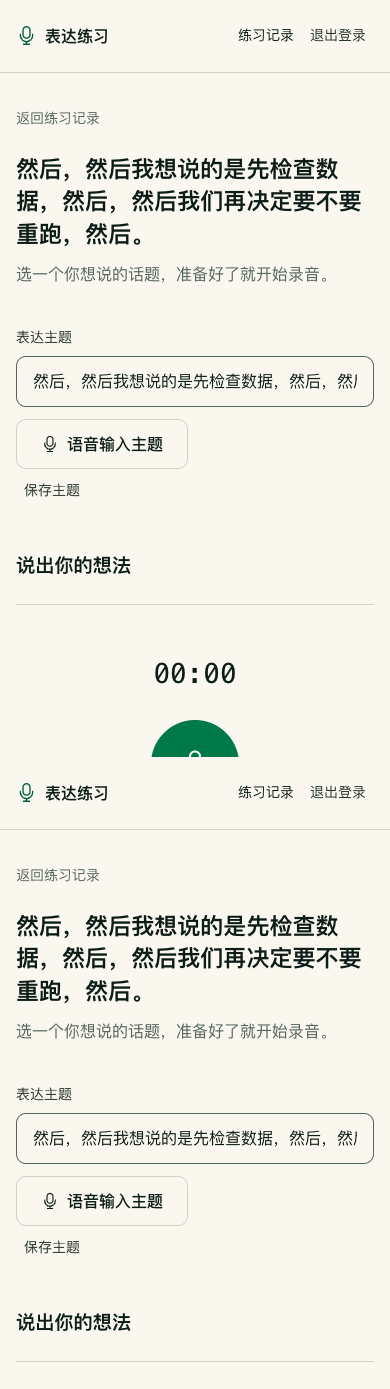
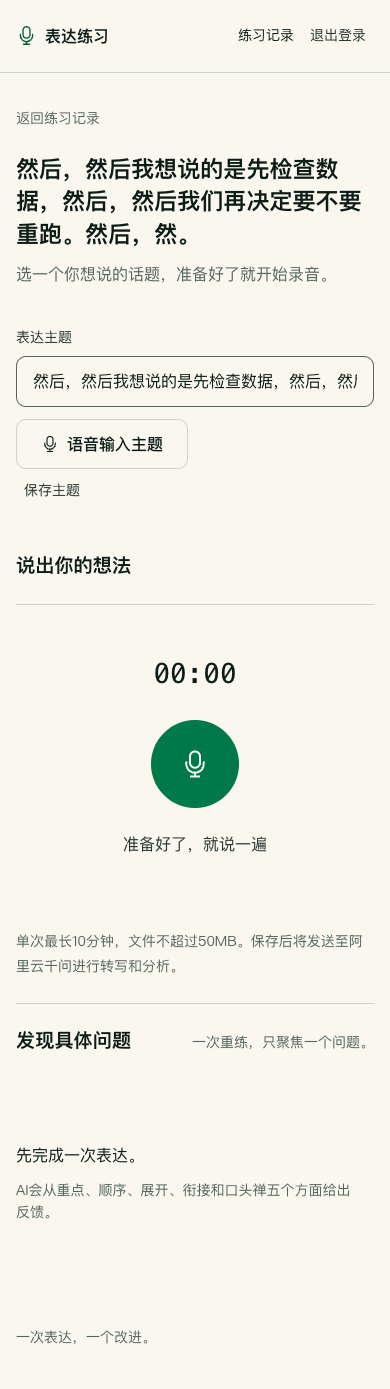
feat: redesign personal workspace with history and current issue analysis

diff --git a/src/components/practice-list.tsx b/src/components/practice-list.tsx
@@ -4,18 +4,43 @@ import { useCallback, useEffect, useRef, useState } from 'react';
 import { useRouter } from 'next/navigation';
 import { AppShell, Mic } from './app-shell';
 import { api, dateLabel, statusLabel } from '@/lib/client';
+import { DIMENSIONS } from '@/lib/dimensions';
+import type { WorkspaceIssue } from '@/lib/store';
 import { discardDraft } from '@/lib/recording-drafts';
 type Row = { id: string; title: string; goal: string; updatedAt: number; attemptCount: number; latestStatus: string | null };
 export function PracticeList() {
-  const [rows, setRows] = useState<Row[]>([]), [loading, setLoading] = useState(true), [busy, setBusy] = useState(false), [error, setError] = useState(''), [deleting, setDeleting] = useState<Row | null>(null);
+  const [rows, setRows] = useState<Row[]>([]), [issues, setIssues] = useState<WorkspaceIssue[]>([]), [dimension, setDimension] = useState('');
+  const [loading, setLoading] = useState(true), [busy, setBusy] = useState(false), [error, setError] = useState(''), [deleting, setDeleting] = useState<Row | null>(null);
   const dialog = useRef<HTMLDialogElement>(null); const router = useRouter();
-  const load = useCallback(async () => { try { const r = await api<{ practices: Row[] }>('/practices'); setRows(r.practices); setError(''); } catch (e) { setError((e as Error).message); } finally { setLoading(false); } }, []);
+  const load = useCallback(async () => { try { const r = await api<{ practices: Row[]; issues: WorkspaceIssue[] }>('/workspace'); setRows(r.practices); setIssues(r.issues); setError(''); } catch (e) { setError((e as Error).message); } finally { setLoading(false); } }, []);
   useEffect(() => { void load(); const id = setInterval(() => { if (document.visibilityState === 'visible') void load(); }, 5000); return () => clearInterval(id); }, [load]);
+  useEffect(() => {
+    const sync = () => { const value = new URLSearchParams(location.search).get('dimension') || ''; setDimension(DIMENSIONS.some(d => d === value) ? value : ''); };
+    sync(); window.addEventListener('popstate', sync); return () => window.removeEventListener('popstate', sync);
+  }, []);
   useEffect(() => { if (deleting) dialog.current?.showModal(); }, [deleting]);
+  function chooseDimension(value: string) {
+    setDimension(value); const params = new URLSearchParams(location.search);
+    if (value) params.set('dimension', value); else params.delete('dimension');
+    history.pushState(null, '', `${location.pathname}${params.size ? '?' + params.toString() : ''}`);
+  }
   async function create() { setBusy(true); try { const r = await api<{ practice: Row }>('/practices', { method: 'POST' }); router.push(`/practices/${r.practice.id}`); } catch (e) { setError((e as Error).message); setBusy(false); } }
-  return <AppShell><div className="page-heading"><div><h1>每一次表达，都留得下来。</h1><p className="muted">选一个你想讲清楚的话题，开始练习。</p></div><button className="button primary" onClick={create} disabled={busy}>{busy ? '正在创建…' : '新建练习'}</button></div>
-    {error && <div className="notice"><p role="alert" className="error-message">{error}</p><button className="text-button" onClick={load}>重新加载</button></div>}
-    {loading ? <div className="skeleton" aria-label="正在加载练习记录">正在读取练习记录…</div> : !rows.length ? <section className="empty-state"><div className="empty-mic"><Mic size={38} /></div><h2>还没有练习记录</h2><p>从一段真实想说的话开始。录音后，AI会帮你找到具体的改进方向。</p><button className="button quiet" onClick={create} disabled={busy}>开始第一次练习</button></section> : <div className="practice-table"><div className="list-head"><span>表达主题</span><span>最近练习</span><span>状态</span><span className="sr-only">操作</span></div>{rows.map(r => <article className="practice-row" key={r.id}><Link className="practice-title" href={`/practices/${r.id}`}><h2>{r.title || '未命名练习'}</h2><p>{r.goal || '确定主题，开始录音。'}</p></Link><div className="row-meta"><span>{dateLabel(r.updatedAt)}</span><span>{r.attemptCount ? `${r.attemptCount} 次表达` : '尚未录音'}</span></div><span className={`status ${r.latestStatus === 'failed' ? 'status-failed' : ''}`}>{statusLabel[r.latestStatus || 'active'] || '草稿'}</span><button className="text-button" aria-label="删除练习" onClick={() => setDeleting(r)}>删除</button></article>)}</div>}
+  const filteredIssues = issues.filter(item => !dimension || item.issue.dimension === dimension);
+  const pendingCount = rows.filter(row => row.attemptCount > 0 && row.latestStatus !== 'done').length;
+  return <AppShell><div className="workspace-heading"><h1>我的表达工作台</h1><p className="muted">留下每次表达，从具体问题开始下一次练习。</p></div>
+    <section className="workspace-start" aria-labelledby="start-heading"><div><h2 id="start-heading">开始一段新表达</h2><p>选一个想说的话题，用自己的话讲清楚。</p></div><button className="button primary" onClick={create} disabled={busy}><Mic size={20} />{busy ? '正在创建…' : '新建练习'}</button></section>
+    {error && <div className="notice"><p role="alert" className="error-message">{error}</p>{rows.length > 0 && <p className="small muted">刷新失败，暂时保留上次读取的记录与反馈。</p>}<button className="text-button" onClick={load}>重新加载</button></div>}
+    <nav className="workspace-jumps" aria-label="工作台模块"><a href="#history-heading">历史表达</a><a href="#problems-heading">当前问题分析</a></nav>
+    <div className="workspace-grid"><section className="workspace-history" aria-labelledby="history-heading"><div className="workspace-section-head"><h2 id="history-heading">历史表达</h2>{!loading && (!error || rows.length > 0) && <span className="small muted">{rows.length} 组练习</span>}</div>
+      {loading ? <div className="workspace-loading" aria-label="正在加载练习记录"><div className="skeleton">正在读取表达记录…</div><div className="skeleton">正在读取练习状态…</div></div> : !rows.length ? <div className="workspace-empty"><h3>{error ? '暂时无法读取历史表达' : '还没有练习记录'}</h3><p>{error ? '请重新加载后查看。' : '录音、转写和每次重练都会保存在这里。'}</p>{!error && <button className="button quiet" onClick={create} disabled={busy}>开始第一次练习</button>}</div> : <div className="practice-table"><div className="list-head"><span>表达主题</span><span>最近练习</span><span>状态</span><span className="sr-only">操作</span></div>{rows.map(r => <article className="practice-row" key={r.id}><Link className="practice-title" href={`/practices/${r.id}`}><h3>{r.title || '未命名练习'}</h3><p>{r.attemptCount ? `已保存 ${r.attemptCount} 次表达` : '继续确定主题，开始录音'}</p></Link><div className="row-meta"><span>{dateLabel(r.updatedAt)}</span></div><span className={`status ${r.latestStatus === 'failed' ? 'status-failed' : ''}`}>{statusLabel[r.latestStatus || 'active'] || '草稿'}</span><button className="text-button" aria-label="删除练习" onClick={() => setDeleting(r)}>删除</button></article>)}</div>}
+    </section><aside className="workspace-problems" aria-labelledby="problems-heading"><div className="workspace-section-head"><h2 id="problems-heading">当前问题分析</h2></div><p className="workspace-scope small muted">每组只看最近一次表达，尚未完成分析的暂不计入。</p>
+      {loading ? <div className="workspace-loading" aria-label="正在加载问题分析"><div className="skeleton">正在整理具体反馈…</div></div> : error && !rows.length ? <div className="workspace-empty"><h3>暂时无法读取问题分析</h3><p>请重新加载后查看。</p></div> : <>
+        <div className="dimension-summary" role="group" aria-label="按问题维度筛选"><button className="dimension-filter" aria-pressed={!dimension} onClick={() => chooseDimension('')}><span>全部问题</span><span>{issues.length}<span className="sr-only">条</span></span></button>{DIMENSIONS.map(d => <button key={d} className="dimension-filter" aria-pressed={dimension === d} onClick={() => chooseDimension(d)}><span>{d}</span><span>{issues.filter(item => item.issue.dimension === d).length}<span className="sr-only">条</span></span></button>)}</div>
+        {pendingCount > 0 && <p className="small muted workspace-pending">{pendingCount} 组表达尚未完成分析，完成后更新这里的反馈。</p>}
+        <div className="workspace-issues" aria-live="polite">{filteredIssues.length > 0 ? <>{filteredIssues.slice(0, 6).map(item => <article className="workspace-issue" key={`${item.attemptId}:${item.issue.id}`}><div className="workspace-issue-meta"><h3>{item.issue.dimension}</h3><span className="small muted">第 {item.sequence} 次表达</span></div><Link className="workspace-source small" href={`/practices/${item.practiceId}?attempt=${item.attemptId}`}>{item.title || '未命名练习'}</Link><blockquote>{item.issue.evidence}</blockquote>{!item.issue.evidenceVerified && <p className="small error-message">引用未核验，请先回听确认。</p>}<p className="small muted">{item.issue.impact}</p><p className="workspace-suggestion">{item.issue.suggestion}</p><Link className="text-button" href={`/practices/${item.practiceId}?attempt=${item.attemptId}&retry=${encodeURIComponent(item.issue.id)}`}>针对这个问题重练</Link></article>)}{filteredIssues.length > 6 && <p className="small muted">显示最近6条反馈，其余可在对应表达中查看。</p>}</> : <div className="workspace-empty"><h3>{error ? '暂时无法读取问题分析' : dimension ? '这个维度暂无问题反馈' : rows.length ? '暂无可汇总的问题' : '先留下一段表达'}</h3><p>{error ? '请重新加载后查看。' : !rows.length ? '完成录音和分析后，具体反馈会出现在这里。' : '只汇总已完成分析的最新版本，不代表整体能力评价。'}</p></div>}</div>
+        <p className="workspace-disclaimer small muted">问题条数不是能力评分。AI判断可能有误，请结合原音核对。</p>
+      </>}
+    </aside></div>
     <dialog ref={dialog} onCancel={() => setDeleting(null)} onClick={e => { if (e.target === dialog.current) { dialog.current.close(); setDeleting(null); } }}><h2>删除这组练习？</h2><p>“{deleting?.title || '未命名练习'}”的所有录音、转写、分析和重练记录都会删除，无法恢复。</p><div className="button-row"><button className="button quiet" onClick={() => { dialog.current?.close(); setDeleting(null); }} disabled={busy}>保留练习</button><button className="button primary" disabled={busy} onClick={async () => { if (!deleting) return; setBusy(true); try { await api(`/practices/${deleting.id}`, { method: 'DELETE' }); discardDraft(deleting.id); dialog.current?.close(); setDeleting(null); await load(); } catch (e) { setError((e as Error).message); dialog.current?.close(); setDeleting(null); } finally { setBusy(false); } }}>确认删除</button></div></dialog>
   </AppShell>;
 }

diff --git a/src/app/globals.css b/src/app/globals.css
@@ -1,5 +1,5 @@
 /* Hallmark · shape: app screen · genre: modern-minimal · theme: Dose (deal 3/3)
- * nav: top bar with practice history and account · signature: recorded voice beside its quoted feedback
+ * nav: top bar with practice history and account · signature: expression history beside source-linked current feedback
  * states: loading empty error full recording uploading analyzing comparing · dose: white
  * axes: light/grotesk-sans/chromatic-green · posture: committed · v2.0.0 */
 /* Hallmark · pre-emit critique: P4 H4 E3 S4 R4 V3 · weakest: E, browser focus and recording states require runtime verification */
@@ -88,7 +88,7 @@ dialog p { margin-top: var(--space-md); line-height: 1.8; }
 .topic-form { max-width: 80ch; margin-block: var(--space-md) var(--space-xl); }
 .topic-field { display: grid; grid-template-columns: minmax(0, 1fr) auto; gap: var(--space-sm); align-items: start; }
 .topic-controls { display: flex; flex-wrap: wrap; gap: var(--space-xs); }
-.topic-voice p { margin-top: var(--space-xs); max-width: 32ch; }
+.topic-voice p { margin-top: var(--space-xs); max-width: 45ch; }
 .topic-form .text-button { justify-self: start; }
 .work-toolbar { display: flex; align-items: center; justify-content: space-between; gap: var(--space-lg); padding-block: var(--space-md); border-block: 1px solid var(--color-rule); margin-bottom: var(--space-xl); }
 .tab-buttons { display: inline-flex; gap: var(--space-xs); }
@@ -177,7 +177,7 @@ dialog p { margin-top: var(--space-md); line-height: 1.8; }
 
 /* A processing signal, rather than an audio-level or percentage estimate. */
 .processing-indicator { display: inline-flex; align-items: center; gap: var(--space-sm); }
-.processing-wave { display: inline-flex; align-items: center; gap: 3px; height: 22px; flex-shrink: 0; color: var(--color-accent); }
+.processing-wave { display: inline-flex; align-items: center; gap: var(--space-2xs); height: 22px; flex-shrink: 0; color: var(--color-accent); }
 .processing-wave i { display: block; width: 3px; height: 18px; background: currentColor; border-radius: var(--radius-input); transform-origin: center; animation: processing-wave 900ms ease-in-out infinite alternate; }
 .processing-wave i:nth-child(2) { animation-delay: -360ms; }
 .processing-wave i:nth-child(3) { animation-delay: -180ms; }
@@ -186,6 +186,67 @@ dialog p { margin-top: var(--space-md); line-height: 1.8; }
 @keyframes processing-wave { from { transform: scaleY(0.25); } to { transform: scaleY(1); } }
 @media (prefers-reduced-motion: reduce) { .processing-wave i { animation: none; transform: scaleY(0.6); } }
 
-.recording-wave { display: inline-flex; align-items: center; justify-content: center; gap: 4px; height: 32px; flex-shrink: 0; color: var(--color-accent); }
+.recording-wave { display: inline-flex; align-items: center; justify-content: center; gap: var(--space-2xs); height: 32px; flex-shrink: 0; color: var(--color-accent); }
 .recording-wave i { display: block; width: 4px; height: 28px; background: currentColor; border-radius: var(--radius-input); transform: scaleY(0.15); }
 .recording-status { display: flex; align-items: center; gap: var(--space-sm); }
+
+/* Personal workspace: history beside source-linked feedback, using the existing Dose system. */
+.workspace-heading { margin-bottom: var(--space-xl); }
+.workspace-heading h1 { font-size: var(--text-2xl); min-width: 0; overflow-wrap: break-word; }
+.workspace-heading > p { margin-top: var(--space-xs); max-width: 65ch; }
+.workspace-start { display: flex; align-items: center; justify-content: space-between; gap: var(--space-lg); padding: var(--space-lg) var(--space-xl); margin-bottom: var(--space-xl); background: var(--color-paper-2); border-block: 1px solid var(--color-rule); }
+.workspace-start h2 { font-size: var(--text-xl); }
+.workspace-start p { color: var(--color-ink-2); margin-top: var(--space-xs); max-width: 65ch; }
+.workspace-start .button { flex-shrink: 0; }
+.workspace-grid { display: grid; grid-template-columns: minmax(0, 1.65fr) minmax(0, 1fr); gap: var(--space-xl); align-items: start; }
+.workspace-section-head { display: flex; align-items: baseline; justify-content: space-between; gap: var(--space-md); margin-bottom: var(--space-lg); }
+.workspace-section-head h2 { font-size: var(--text-xl); }
+.workspace-history,.workspace-problems { min-width: 0; }
+.workspace-problems { padding-left: var(--space-xl); border-left: 1px solid var(--color-rule); }
+.workspace-grid .list-head,.workspace-grid .practice-row { grid-template-columns: minmax(0, 1fr) 112px 96px 44px; gap: var(--space-sm); }
+.workspace-grid .practice-title h3 { font-size: var(--text-md); font-weight: 700; line-height: 1.7; overflow-wrap: break-word; }
+.workspace-grid .row-meta { line-height: 1.7; }
+.workspace-grid .practice-row { align-items: center; }
+.workspace-scope { line-height: 1.8; max-width: 65ch; margin-bottom: var(--space-lg); }
+.dimension-summary { border-block: 1px solid var(--color-rule); }
+.dimension-filter { display: flex; width: 100%; justify-content: space-between; align-items: center; gap: var(--space-sm); min-height: 44px; padding: var(--space-xs) var(--space-sm); font-size: var(--text-sm); border: 0; border-bottom: 1px solid var(--color-rule); background: transparent; cursor: pointer; }
+.dimension-filter:last-child { border-bottom: 0; }
+.dimension-filter:hover { background: var(--color-paper-2); }
+.dimension-filter[aria-pressed="true"] { background: var(--color-paper-3); font-weight: 700; color: var(--color-accent-deep); }
+.dimension-filter > span:last-child { font-variant-numeric: tabular-nums; }
+.workspace-pending { margin-top: var(--space-md); line-height: 1.8; }
+.workspace-issue { padding-block: var(--space-lg); border-bottom: 1px solid var(--color-rule); }
+.workspace-issue-meta { display: flex; align-items: baseline; justify-content: space-between; gap: var(--space-sm); flex-wrap: wrap; }
+.workspace-issue-meta h3 { font-size: var(--text-md); }
+.workspace-source { display: inline-block; margin-top: var(--space-xs); max-width: 100%; overflow-wrap: break-word; color: var(--color-muted); }
+.workspace-issue blockquote { font-size: var(--text-md); }
+.workspace-issue > p { max-width: 65ch; line-height: 1.8; overflow-wrap: break-word; }
+.workspace-suggestion { margin-top: var(--space-sm); }
+.workspace-issue .text-button { margin-top: var(--space-xs); padding-left: 0; color: var(--color-accent-deep); }
+.workspace-disclaimer { margin-top: var(--space-lg); max-width: 65ch; line-height: 1.8; }
+.workspace-empty { padding-block: var(--space-xl); }
+.workspace-empty h3 { font-size: var(--text-lg); }
+.workspace-empty p { max-width: 65ch; margin-top: var(--space-sm); color: var(--color-muted); line-height: 1.8; }
+.workspace-empty .button { margin-top: var(--space-lg); }
+.workspace-loading .skeleton + .skeleton { margin-top: var(--space-lg); }
+@media (max-width: 1100px) {
+  .workspace-grid { grid-template-columns: minmax(0, 1.35fr) minmax(0, 1fr); gap: var(--space-lg); }
+  .workspace-problems { padding-left: var(--space-lg); }
+  .workspace-grid .list-head { display: none; }
+  .workspace-grid .practice-row { grid-template-columns: minmax(0, 1fr) auto; }
+  .workspace-grid .practice-title { grid-column: 1 / -1; }
+  .workspace-grid .row-meta { grid-column: 1; }
+  .workspace-grid .status { grid-column: 1; }
+  .workspace-grid .practice-row > button { grid-column: 2; grid-row: 2 / 4; }
+}
+@media (max-width: 760px) {
+  .workspace-heading { margin-bottom: var(--space-lg); }
+  .workspace-start { flex-direction: column; align-items: stretch; padding: var(--space-lg); gap: var(--space-lg); }
+  .workspace-grid { grid-template-columns: minmax(0, 1fr); gap: var(--space-xl); }
+  .workspace-problems { padding-left: 0; padding-top: var(--space-lg); border-left: 0; border-top: 1px solid var(--color-rule); }
+}
+
+.workspace-jumps { display: flex; flex-wrap: wrap; gap: var(--space-lg); margin-bottom: var(--space-lg); border-bottom: 1px solid var(--color-rule); }
+.workspace-jumps a { display: inline-flex; align-items: center; min-height: 44px; font-size: var(--text-sm); color: var(--color-accent-deep); }
+.retry-choice h2 { font-size: var(--text-lg); }
+.retry-choice > p { margin-top: var(--space-sm); max-width: 65ch; line-height: 1.8; }

diff --git a/src/components/practice-workbench.tsx b/src/components/practice-workbench.tsx
@@ -1,7 +1,7 @@
 'use client';
 import Link from 'next/link';
 import { useCallback, useEffect, useRef, useState } from 'react';
-import { api, dateLabel, durationLabel, statusLabel } from '@/lib/client';
+import { api, dateLabel, durationLabel } from '@/lib/client';
 import type { Analysis, ComparisonResult, Issue } from '@/lib/analysis-schema';
 import { AppShell } from './app-shell';
 import { AudioRecorder } from './audio-recorder';
@@ -17,6 +17,7 @@ export function PracticeWorkbench({ id }: { id: string }) {
   const [practice, setPractice] = useState<Practice | null>(null), [title, setTitle] = useState(''), [selected, setSelected] = useState(''), [view, setView] = useState('expression');
   const [loading, setLoading] = useState(true), [error, setError] = useState(''), [busy, setBusy] = useState(false), [recordMode, setRecordMode] = useState(false), [target, setTarget] = useState<{ sourceId: string; issue: Issue } | null>(null), [dirty, setDirty] = useState(false);
   const [topicBusy, setTopicBusy] = useState(false);
+  const [retryChoice, setRetryChoice] = useState<{ sourceId: string; issue: Issue } | null>(null);
   const unsaved = dirty || topicBusy;
   const changeTopicBusy = useCallback((value: boolean) => setTopicBusy(value), []);
   const initialized = useRef(false);
@@ -27,11 +28,17 @@ export function PracticeWorkbench({ id }: { id: string }) {
       if (!initialized.current) {
         const params = new URLSearchParams(location.search);
         setTitle(p.title); setSelected(params.get('attempt') || p.attempts.at(-1)?.id || ''); setView(params.get('view') === 'compare' ? 'compare' : 'expression'); setRecordMode(!p.attempts.length); initialized.current = true;
+        const requestedSource = p.attempts.find(a => a.id === params.get('attempt'));
+        const requestedIssue = requestedSource?.analysis?.issues.find(i => i.id === params.get('retry'));
+        const requested = requestedSource && requestedIssue ? { sourceId: requestedSource.id, issue: requestedIssue } : null;
         const draft = readDraft(id);
         if (draft) {
           setTitle(draft.title); setRecordMode(true); setView('expression');
           const source = p.attempts.find(a => a.id === draft.sourceId), issue = source?.analysis?.issues.find(i => i.id === draft.issueId);
           if (source && issue) { setSelected(source.id); setTarget({ sourceId: source.id, issue }); }
+          if (requested && (draft.sourceId !== requested.sourceId || draft.issueId !== requested.issue.id)) setRetryChoice(requested);
+        } else if (requested) {
+          setTarget(requested); setRecordMode(true); setView('expression');
         }
       }
     } catch (e) { setError((e as Error).message); } finally { setLoading(false); }
@@ -50,8 +57,8 @@ export function PracticeWorkbench({ id }: { id: string }) {
     return () => { window.removeEventListener('beforeunload', prevent); window.removeEventListener('popstate', preventHistory, true); };
   }, [unsaved]);
   useEffect(() => {
-    if (!initialized.current) return; const params = new URLSearchParams(); if (selected) params.set('attempt', selected); if (view === 'compare') params.set('view', 'compare'); history.replaceState(null, '', `${location.pathname}${params.size ? '?' + params.toString() : ''}`);
-  }, [selected, view]);
+    if (!initialized.current) return; const params = new URLSearchParams(); if (selected) params.set('attempt', selected); if (view === 'compare') params.set('view', 'compare'); if (retryChoice) { params.set('attempt', retryChoice.sourceId); params.set('retry', retryChoice.issue.id); } else if (recordMode && target) params.set('retry', target.issue.id); history.replaceState(null, '', `${location.pathname}${params.size ? '?' + params.toString() : ''}`);
+  }, [selected, view, recordMode, target, retryChoice]);
   const current = practice?.attempts.find(a => a.id === selected) || practice?.attempts.at(-1);
   const comparison = [...(practice?.comparisons || [])].reverse().find(c => c.attemptId === current?.id);
   const source = practice?.attempts.find(a => a.id === current?.sourceId);
@@ -71,6 +78,7 @@ export function PracticeWorkbench({ id }: { id: string }) {
   return <AppShell hasUnsaved={unsaved}>{loading ? <div className="skeleton">正在打开练习…</div> : !practice ? <div className="empty-state"><h1>{error || '练习不存在或无权访问'}</h1><Link className="button quiet" href="/practices">返回练习记录</Link></div> : <>
     <div className="work-heading"><Link className="back-link" href="/practices" onClick={e => { if (unsaved && !confirm('还有未保存的录音，确定离开吗？')) e.preventDefault(); }}>返回练习记录</Link><h1>{practice.title || '开始一段新表达'}</h1><p className="muted">选一个你想说的话题，准备好了就开始录音。</p></div>
     {error && <p role="alert" className="notice error-message">{error}</p>}
+    {retryChoice && <section className="notice retry-choice" aria-labelledby="draft-choice-heading"><h2 id="draft-choice-heading">还有一段未保存的录音</h2><p>已保留上次录音。你刚选择了「{retryChoice.issue.dimension}」的重练，可以继续旧录音，或放弃草稿后切换。</p><div className="button-row"><button className="button quiet" onClick={() => setRetryChoice(null)}>继续上次录音</button><button className="button quiet" onClick={() => { if (!confirm('放弃未保存的录音，切换到刚选择的问题吗？')) return; discardDraft(id); setTarget(retryChoice); setSelected(retryChoice.sourceId); setRecordMode(true); setView('expression'); setRetryChoice(null); }}>放弃草稿，练所选问题</button></div></section>}
     {!practice.attempts.length && <section className="topic-form"><label htmlFor="topic">表达主题</label><div className="topic-field"><input id="topic" value={title} maxLength={120} onChange={e => setTitle(e.target.value)} placeholder="例如：为什么建议推迟上线" required disabled={topicBusy} /><TopicVoiceInput practiceId={id} disabled={busy || dirty} onBusyChange={changeTopicBusy} onResult={async value => { setTitle(value); await api(`/practices/${id}`, { method: 'PATCH', body: JSON.stringify({ title: value }) }); await load(); }} /></div><button className="text-button" disabled={busy || topicBusy} onClick={() => action(() => api(`/practices/${id}`, { method: 'PATCH', body: JSON.stringify({ title }) }))}>保存主题</button></section>}
     {practice.attempts.length > 0 && <div className="work-toolbar"><div className="tab-buttons" aria-label="查看方式"><button aria-pressed={view === 'expression'} onClick={() => setView('expression')}>本次表达</button><button aria-pressed={view === 'compare'} disabled={!current?.sourceId || dirty} title={dirty ? "请先保存或取消当前录音" : undefined} onClick={() => setView('compare')}>前后对比</button></div><label className="version-picker">表达版本<select aria-label="表达版本" value={current?.id || ''} onChange={e => { if (dirty && !confirm('还有未保存的录音，确定切换版本吗？')) return; setSelected(e.target.value); setRecordMode(false); setTarget(null); }} disabled={dirty}>{practice.attempts.map(a => <option key={a.id} value={a.id}>第 {a.sequence} 次表达</option>)}</select></label></div>}
     {view === 'compare' && current && source ? <section className="comparison-view"><div className="section-heading"><h2>围绕同一个问题，看两次表达</h2><p className="muted">{current.target?.dimension}：{current.target?.suggestion}</p></div><div className="compare-columns">{[source, current].map((a, index) => <section key={a.id} className="compare-version"><h3>{index === 0 ? '重练前' : '重练后'} <span className="muted small">第 {a.sequence} 次表达</span></h3><audio controls src={a.audioUrl} preload="metadata" aria-label={index === 0 ? '重练前录音' : '重练后录音'} /><p className="transcript">{a.transcript || '转写尚未完成'}</p></section>)}</div>

diff --git a/e2e/workspace.spec.ts b/e2e/workspace.spec.ts
@@ -1,0 +1,98 @@
+import { expect, test } from '@playwright/test';
+import { readFileSync } from 'node:fs';
+import { resolve } from 'node:path';
+import { Store } from '../src/lib/store';
+import { parseAnalysis } from '../src/lib/analysis-schema';
+
+test.use({ actionTimeout: 15000 });
+
+// Controlled feedback fixtures exercise workspace states; the other E2E suite calls real Omni.
+test('workspace history, issue dimensions, source retry, responsive layout and deletion', async ({ page }) => {
+  await page.goto('/auth');
+  await page.getByRole('button', { name: '注册新账号' }).click();
+  await page.getByLabel('手机号', { exact: true }).fill('132' + Date.now().toString().slice(-8));
+  await page.getByLabel('密码', { exact: true }).fill('Workspace-test-password');
+  await page.getByLabel('确认密码', { exact: true }).fill('Workspace-test-password');
+  await page.getByRole('button', { name: '创建账号' }).click();
+  await expect(page.getByRole('heading', { name: '我的表达工作台' })).toBeVisible();
+  await expect(page.getByText('还没有练习记录')).toBeVisible();
+  const ids: string[] = [], origin = new URL(page.url()).origin;
+  const headers = { Origin: origin };
+  const { user } = await (await page.request.get('/api/me')).json();
+  const db = new Store(resolve(process.env.APP_DATA_DIR || 'var'));
+  try {
+    const dimensions = ['抓重点', '排顺序', '展开内容', '衔接与恢复', '口头禅与语气垫词'].map(name => ({ name, finding: '测试观察' }));
+    const themes = ['测试样本：向同事说明项目调整的原因', '测试样本：先检查数据，再决定是否重跑', '测试样本：准备明天的客户沟通'];
+    for (let index = 0; index < themes.length; index++) {
+      const { practice } = await (await page.request.post('/api/practices', { headers })).json(); ids.push(practice.id);
+      await page.request.patch(`/api/practices/${practice.id}`, { headers, data: { title: themes[index] } });
+      if (index === 2) continue;
+      const upload = await page.request.post(`/api/practices/${practice.id}/attempts`, { headers, multipart: { audio: { name: 'sample.wav', mimeType: 'audio/wav', buffer: readFileSync('outputs/omni-audio-samples/audio/05.wav') } } });
+      expect(upload.status()).toBe(201); const { attempt } = await upload.json();
+      const analysis = parseAnalysis(JSON.stringify({ transcript: '然后，然后，我想说的是先检查数据。我还有很多想法。', dimensions,
+        issues: index === 0 ? [
+          { dimension: '抓重点', evidence: '我还有很多想法', impact: '没有明确最希望听众记住的结论。', suggestion: '先用一句话说出本次建议，再说明原因。' },
+          { dimension: '展开内容', evidence: '先检查数据', impact: '建议缺少具体依据。', suggestion: '补充一次检查发现问题的具体例子。' },
+        ] : [{ dimension: '口头禅与语气垫词', evidence: '然后，然后', impact: '重复的连接词打断主线。', suggestion: '删掉重复的然后，停顿后直接说下一句。' }], uncertainty: '自动化测试的受控反馈，不是真实模型结论。' }));
+      db.db.prepare("UPDATE attempts SET status='done',analysis=?,transcript=? WHERE id=?").run(JSON.stringify(analysis), analysis.transcript, attempt.id);
+    }
+    await page.reload();
+    await expect(page.locator('.practice-row')).toHaveCount(3);
+    await expect(page.locator('.workspace-issue')).toHaveCount(3);
+    for (const [width, height] of [[1280, 800], [1440, 900], [1920, 1080], [375, 812]]) {
+      await page.setViewportSize({ width, height });
+      await page.screenshot({ path: `outputs/uat/workspace-${width}.png`, fullPage: true });
+      if (width === 375) { await page.getByRole('link', { name: '当前问题分析', exact: true }).click(); await expect(page.getByRole('heading', { name: '当前问题分析', exact: true })).toBeInViewport(); }
+      expect(await page.evaluate(() => document.documentElement.scrollWidth <= innerWidth)).toBe(true);
+    }
+    await page.setViewportSize({ width: 1440, height: 900 });
+    await page.getByRole('button', { name: /^抓重点/ }).click();
+    await expect(page.locator('.workspace-issue')).toHaveCount(1);
+    await page.reload();
+    await expect(page.getByRole('button', { name: /^抓重点/ })).toHaveAttribute('aria-pressed', 'true');
+    await page.getByRole('button', { name: /^排顺序/ }).click();
+    await expect(page.getByText('这个维度暂无问题反馈')).toBeVisible();
+    await page.goBack();
+    await expect(page.locator('.workspace-issue')).toHaveCount(1);
+    await page.getByRole('link', { name: '针对这个问题重练', exact: true }).click();
+    await expect(page.getByRole('heading', { name: '本次重练目标' })).toBeVisible();
+    await expect(page.locator('.retry-target')).toContainText('先用一句话说出本次建议');
+    await page.reload();
+    await expect(page.locator('.retry-target')).toContainText('先用一句话说出本次建议');
+    await page.getByRole('button', { name: '开始录音', exact: true }).click();
+    await page.waitForTimeout(800);
+    await page.getByRole('button', { name: '结束录音', exact: true }).click();
+    await expect(page.locator('audio')).toHaveCount(1);
+    page.once('dialog', dialog => dialog.accept());
+    await page.getByRole('link', { name: '返回练习记录', exact: true }).click();
+    await page.getByRole('button', { name: /^展开内容/ }).click();
+    await page.getByRole('link', { name: '针对这个问题重练', exact: true }).click();
+    await expect(page.getByRole('heading', { name: '还有一段未保存的录音' })).toBeVisible();
+    await expect(page.locator('audio')).toHaveCount(1);
+    await page.getByRole('button', { name: '继续上次录音', exact: true }).click();
+    await expect(page.locator('.retry-target')).toContainText('先用一句话说出本次建议');
+    page.once('dialog', dialog => dialog.accept());
+    await page.getByRole('link', { name: '返回练习记录', exact: true }).click();
+    await page.getByRole('button', { name: /^展开内容/ }).click();
+    await page.getByRole('link', { name: '针对这个问题重练', exact: true }).click();
+    page.once('dialog', dialog => dialog.accept());
+    await page.getByRole('button', { name: '放弃草稿，练所选问题', exact: true }).click();
+    await expect(page.locator('.retry-target')).toContainText('补充一次检查发现问题的具体例子');
+    await expect(page.locator('audio')).toHaveCount(0);
+    await page.goto('/practices');
+    await expect(page.locator('.practice-row')).toHaveCount(3);
+    await page.route('**/api/workspace', route => route.abort());
+    await page.getByRole('button', { name: '新建练习', exact: true }).isVisible();
+    await expect(page.getByText('刷新失败，暂时保留上次读取的记录与反馈。')).toBeVisible({ timeout: 15000 });
+    await expect(page.locator('.practice-row')).toHaveCount(3);
+    await page.unroute('**/api/workspace');
+    await page.getByRole('button', { name: '重新加载', exact: true }).click();
+    await page.locator('.practice-row').filter({ hasText: themes[0] }).getByRole('button', { name: '删除练习', exact: true }).click();
+    await page.getByRole('button', { name: '确认删除', exact: true }).click();
+    await expect(page.locator('.practice-row')).toHaveCount(2);
+    await expect(page.locator('.workspace-issue')).toHaveCount(1);
+  } finally {
+    for (const id of ids) { try { db.deletePractice(user.id, id); } catch { /* Already deleted by the UI. */ } }
+    db.close();
+  }
+});

diff --git a/tests/core.test.ts b/tests/core.test.ts
@@ -145,3 +145,25 @@ describe('model trust boundaries', () => {
     expect(result.verdict).toBe('无法判断');
   });
 });
+
+describe('workspace current issue snapshot', () => {
+  it('isolates accounts, replaces old issues with the latest attempt and removes deleted practices', () => {
+    const { db, a, b } = setup(); const p = db.createPractice(a.id);
+    db.updatePractice(a.id, p.id, '数据检查');
+    const first = db.addAttempt(a.id, p.id, { filename: 'first.wav', mime: 'audio/wav', duration: 2 });
+    const analysis = parseAnalysis(JSON.stringify({ transcript: '然后，然后，先检查数据。', dimensions: ['抓重点', '排顺序', '展开内容', '衔接与恢复', '口头禅与语气垫词'].map(name => ({ name, finding: '观察' })), issues: [{ dimension: '口头禅与语气垫词', evidence: '然后，然后', impact: '重复', suggestion: '保留一次' }], uncertainty: '' }));
+    let job = db.requestAnalysis(a.id, first.id); db.claimJob(); db.completeJob(job.id, analysis);
+    expect(db.workspaceIssues(b.id)).toEqual([]);
+    expect(db.workspaceIssues(a.id)).toMatchObject([{ practiceId: p.id, title: '数据检查', attemptId: first.id, issue: { evidence: '然后，然后', evidenceVerified: true } }]);
+    expect(JSON.stringify(db.workspaceIssues(a.id))).not.toContain('filename');
+    const second = db.addAttempt(a.id, p.id, { filename: 'second.wav', mime: 'audio/wav', duration: 2 });
+    expect(db.workspaceIssues(a.id)).toEqual([]);
+    job = db.requestAnalysis(a.id, second.id); db.claimJob(); db.completeJob(job.id, { ...analysis, issues: [] });
+    expect(db.workspaceIssues(a.id)).toEqual([]);
+    const third = db.addAttempt(a.id, p.id, { filename: 'third.wav', mime: 'audio/wav', duration: 2 });
+    job = db.requestAnalysis(a.id, third.id); db.claimJob(); db.completeJob(job.id, analysis);
+    expect(db.workspaceIssues(a.id)).toHaveLength(1);
+    expect(db.workspaceIssues(a.id)[0].attemptId).toBe(third.id);
+    db.deletePractice(a.id, p.id); expect(db.workspaceIssues(a.id)).toEqual([]);
+  });
+});

diff --git a/src/lib/store.ts b/src/lib/store.ts
@@ -7,6 +7,7 @@ import type { Analysis, Issue, ComparisonResult } from './analysis-schema';
 export class AppError extends Error {
   constructor(message: string, public status = 400) { super(message); }
 }
+export type WorkspaceIssue = { practiceId: string; title: string; attemptId: string; sequence: number; createdAt: number; issue: Issue };
 export type User = { id: string; phone: string };
 export type Attempt = {
   id: string; practiceId: string; sequence: number; filename: string; mime: string; duration: number;
@@ -97,6 +98,13 @@ export class Store {
     return this.db.prepare(`SELECT p.*, (SELECT count(*) FROM attempts WHERE practiceId=p.id) attemptCount,
       (SELECT status FROM attempts WHERE practiceId=p.id ORDER BY sequence DESC LIMIT 1) latestStatus
       FROM practices p WHERE userId=? AND status='active' ORDER BY updatedAt DESC`).all(userId);
+  }
+  workspaceIssues(userId: string): WorkspaceIssue[] {
+    const rows = this.db.prepare(`SELECT p.id practiceId,p.title,a.id attemptId,a.sequence,a.createdAt,a.analysis
+      FROM practices p JOIN attempts a ON a.id=(SELECT id FROM attempts WHERE practiceId=p.id ORDER BY sequence DESC LIMIT 1)
+      WHERE p.userId=? AND p.status='active' AND a.status='done' AND a.analysis IS NOT NULL
+      ORDER BY a.createdAt DESC,a.id`).all(userId) as { practiceId: string; title: string; attemptId: string; sequence: number; createdAt: number; analysis: string }[];
+    return rows.flatMap(({ analysis, ...row }) => (JSON.parse(analysis) as Analysis).issues.map(issue => ({ ...row, issue })));
   }
   updatePractice(userId: string, id: string, title: string, goal?: string) {
     const previous = this.owned(userId, id);

diff --git a/src/app/api/[...path]/route.ts b/src/app/api/[...path]/route.ts
@@ -43,6 +43,7 @@ async function route(req: NextRequest, { params }: { params: Promise<{ path: str
     }
     if (path[0] === 'auth' && path[1] === 'logout' && method === 'POST') { db.revokeSession(token); jar.delete('expression_session'); return json({ ok: true }); }
     const user = db.sessionUser(token); if (!user) throw new AppError('请先登录', 401);
+    if (path[0] === 'workspace' && path.length === 1 && method === 'GET') return json({ practices: db.listPractices(user.id), issues: db.workspaceIssues(user.id) });
     if (path[0] === 'me' && method === 'GET') return json({ user, model: MODEL, configured: Boolean(process.env.DASHSCOPE_API_KEY && process.env.DASHSCOPE_BASE_URL) });
     if (path[0] === 'practices' && path.length === 1) {
       if (method === 'GET') return json({ practices: db.listPractices(user.id) });

diff --git a/e2e/api.spec.ts b/e2e/api.spec.ts
@@ -14,6 +14,8 @@ test('API ownership, real audio validation, duplicate account, login, range and 
   expect(cookie?.httpOnly).toBe(true);
   const { practice } = await (await a.post('/api/practices')).json();
   const url = `/api/practices/${practice.id}`;
+  const privateWorkspace = await (await b.get('/api/workspace')).json();
+  expect(privateWorkspace.practices).toEqual([]); expect(privateWorkspace.issues).toEqual([]);
   expect((await b.get(url)).status()).toBe(404);
   expect((await b.patch(url, { data: { title: 'x', goal: 'x' } })).status()).toBe(404);
   expect((await b.delete(url)).status()).toBe(404);

diff --git a/src/lib/analysis-schema.ts b/src/lib/analysis-schema.ts
@@ -1,7 +1,8 @@
 import { createHash } from 'node:crypto';
 import { z } from 'zod';
 
-export const DIMENSIONS = ['抓重点', '排顺序', '展开内容', '衔接与恢复', '口头禅与语气垫词'] as const;
+import { DIMENSIONS } from './dimensions';
+export { DIMENSIONS } from './dimensions';
 const short = z.string().max(8000);
 const issueSchema = z.object({ dimension: z.enum(DIMENSIONS), evidence: short.min(1), impact: short.min(1), suggestion: short.min(1) });
 const analysisSchema = z.object({

diff --git a/src/lib/dimensions.ts b/src/lib/dimensions.ts
@@ -1,0 +1,1 @@
+export const DIMENSIONS = ['抓重点', '排顺序', '展开内容', '衔接与恢复', '口头禅与语气垫词'] as const;

diff --git a/docs/superpowers/specs/2026-10-31-workspace-design.md b/docs/superpowers/specs/2026-10-31-workspace-design.md
@@ -1,0 +1,11 @@
+# 个人表达工作台
+
+目标：在 /practices 同时支持新建练习、回看历史表达和根据现有反馈进入重练。保留所有现有路由、注册、录音、转写、分析、删除与比较功能。
+
+布局：顶部工作台标题和新建练习入口；下方宽历史列表与窄问题分析栏。沿用 Dose 色彩、字体、容器和按钮规范。手机上下排列，不引入侧边导航或照片。
+
+当前问题的假设口径：每组练习仅取最近一次表达；该表达只有分析完成后才纳入汇总。新一次仍在等待、失败或未分析时，不回退旧版本。五个维度显示实际问题条数，不解释为能力得分。展示最新六条反馈，可按维度筛选；每条保留主题、原话、影响、建议与引用核验状态，链接到对应版本的指定问题重练。过滤状态写入URL。历史列表保留全部练习、更新时间、版本数、处理状态和删除确认。
+
+状态：首次加载、无记录、无问题、选定维度无问题、请求错误与刷新保留旧数据；待分析记录明确提示未纳入。账号隔离、删除同步、最新版本覆盖、引用未核验与重练链接为重点验收。使用真实模型浏览器回归，并以隔离测试数据覆盖聚合边界；测试数据不得展示为真实用户成果。
+
+检查后的补充：顶部模块锚点让手机用户直达问题分析；从汇总进入新问题时，若与未保存草稿冲突，明确提供继续旧录音或确认放弃后切换，不静默覆盖任一目标。

diff --git a/outputs/uat/2026-10-31-workspace-update.md b/outputs/uat/2026-10-31-workspace-update.md
@@ -1,0 +1,9 @@
+# 个人工作台改版验收
+
+已实现：新建练习入口、历史表达列表、当前问题分析；沿用现有Dose暖白绿色系统。桌面双栏，手机上下排列并提供模块锚点。原有录音、转写、版本、比较、删除与注册路由保留。
+
+当前问题口径：每组只看最新一次表达，只有该版本已完成分析才纳入；不回退旧分析。五维问题条数不是能力评分。每条反馈展示来源版本、原话、影响、改进动作和引用核验状态，支持指定问题重练。若与未保存草稿冲突，明确选择继续草稿或确认放弃并切换。
+
+验证：类型检查通过，28项单元测试通过，生产构建成功，6项Chromium端到端测试通过。原有流程使用浏览器MediaRecorder和真实千问Omni；新增工作台测试使用真实接口、数据库及已知的受控反馈，覆盖维度筛选、URL恢复、手机锚点、刷新失败保留已有数据、指定问题重练、草稿冲突两种选择、删除同步。受控反馈不作为模型准确性的证据，相关测试练习已清理。
+
+Hallmark：源代码与认证页渲染检查为0 FAIL、0 REFLEX、0 WARN。登录后的工作台由E2E分别在1280、1440、1920、375px截图并检查无横向溢出；见workspace-*.png。独立finish review的两项发现均已修复并由测试验证。未提供旧版列表截图，不宣称有完整before/after视觉比较。Safari本轮未验证。
